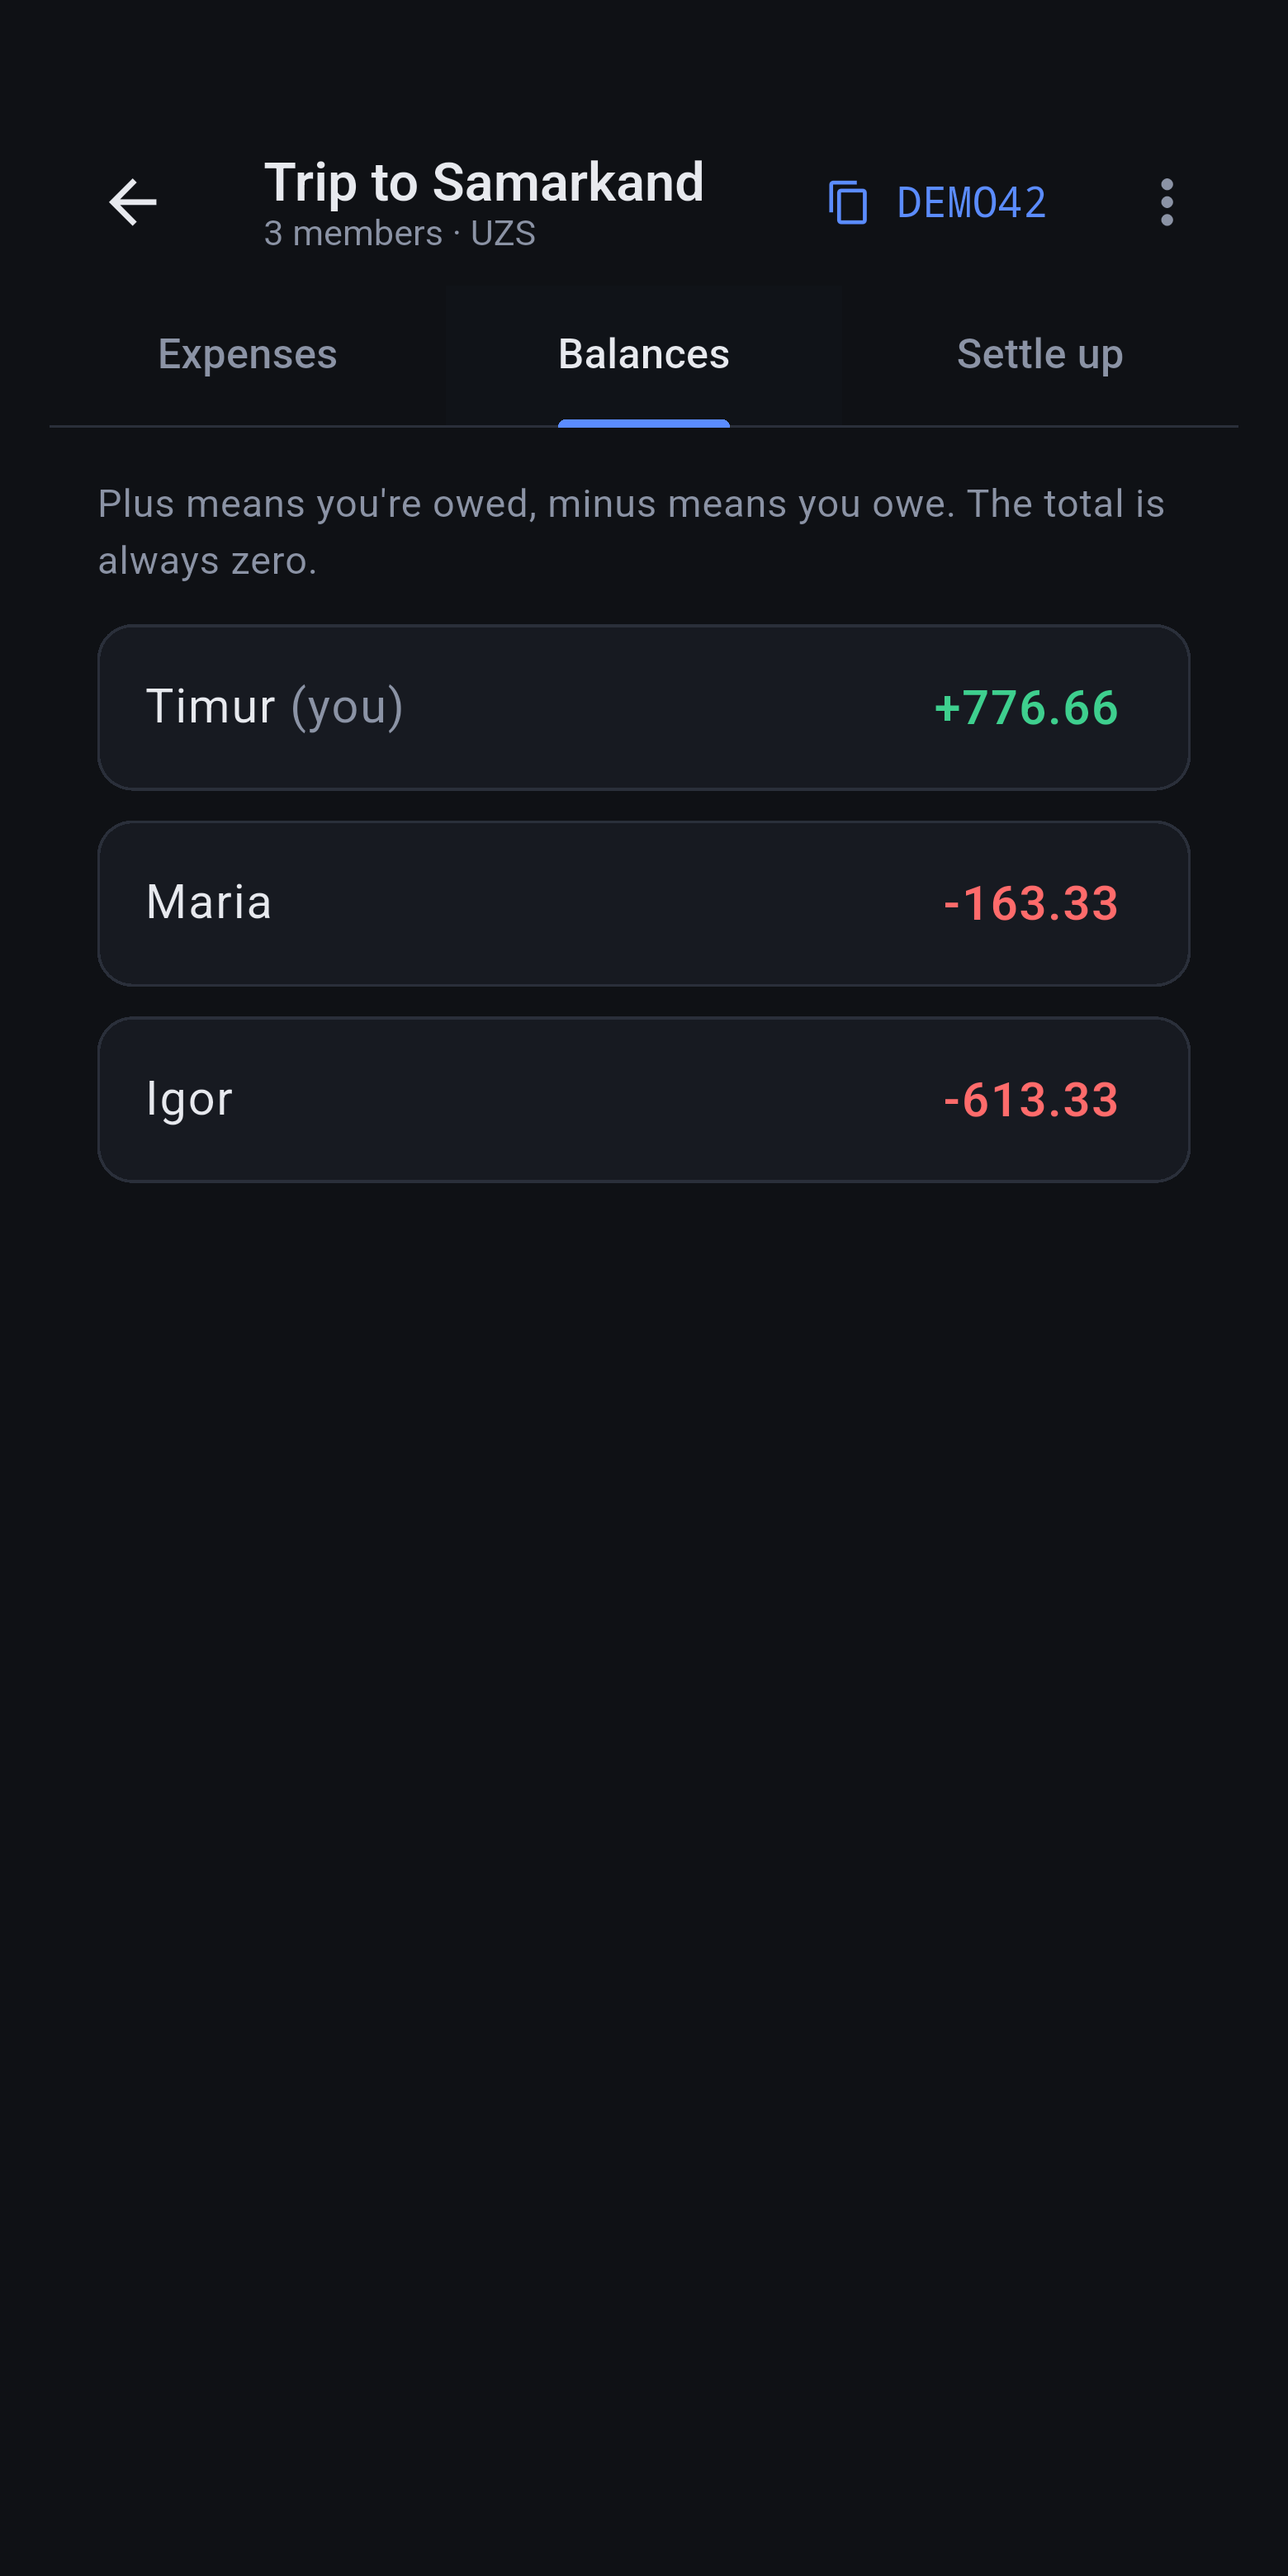
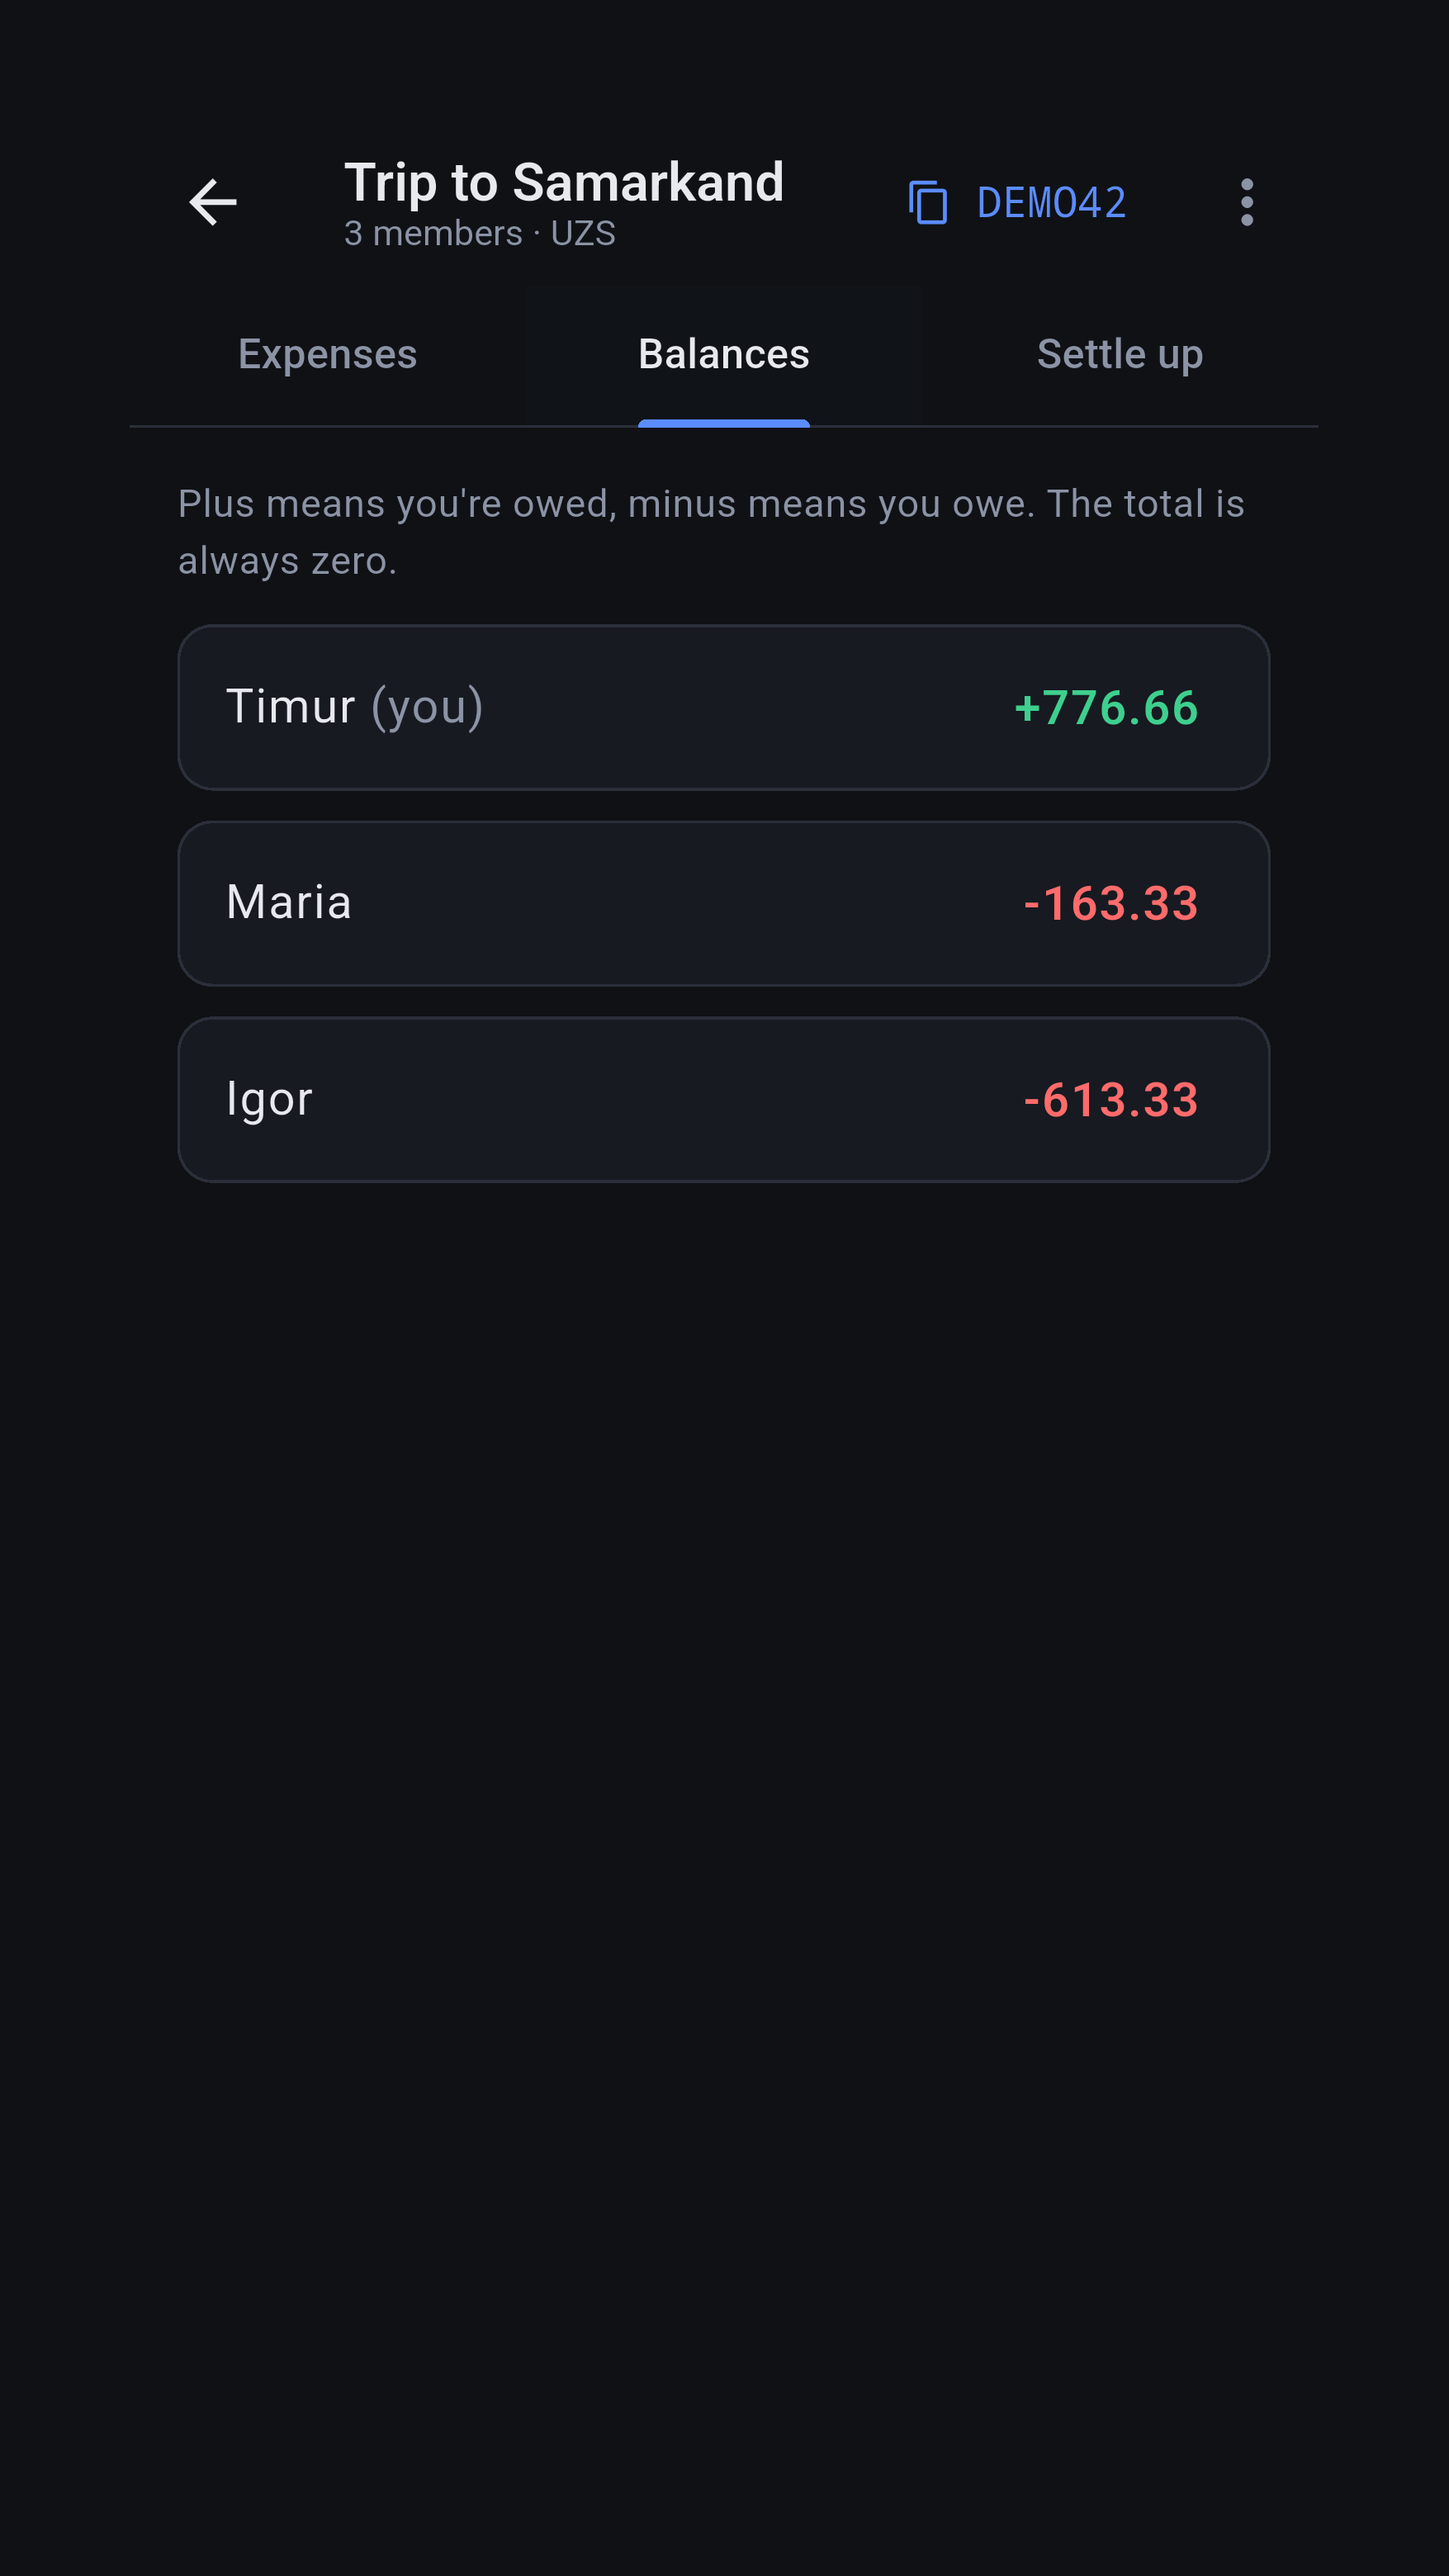
Скриншоты для Google Play в пропорции 9:16

diff --git a/tool/store_assets.py b/tool/store_assets.py
@@ -1,4 +1,4 @@
-# Доводит материалы для Google Play: скриншоты до 2:1, иконка 512, баннер 1024×500.
+# Доводит материалы для Google Play: скриншоты до 9:16, иконка 512, баннер 1024×500.
 # Нужен Pillow; шрифт баннера — системный SF (macOS).
 #   python3 tool/store_assets.py . "Делим счёт и считаем, кто кому должен" ru
 #   python3 tool/store_assets.py . "Split the bill, see who owes whom" en
@@ -7,14 +7,16 @@ from PIL import Image, ImageDraw, ImageFont
 root = sys.argv[1]
 BG = (15, 17, 21)
 
-# Скриншоты: Play не принимает стороны длиннее двух коротких — расширяем фоном
+# Скриншоты: Play принимает телефонные снимки только в пропорции ровно 9:16.
+# Современные телефоны вытянутее (19.5:9), поэтому расширяем снимок фоном по бокам.
 for f in glob.glob(f'{root}/store/screenshots/*.png'):
     im = Image.open(f).convert('RGB')
     w, h = im.size
-    if h > 2 * w:
-        nw = (h + 1) // 2
-        canvas = Image.new('RGB', (nw, h), BG)
-        canvas.paste(im, ((nw - w) // 2, 0))
+    nh = -(-max(h, w * 16 // 9) // 16) * 16   # кратно 16, чтобы 9:16 вышло точно
+    nw = nh * 9 // 16
+    if (nw, nh) != (w, h):
+        canvas = Image.new('RGB', (nw, nh), BG)
+        canvas.paste(im, ((nw - w) // 2, (nh - h) // 2))
         canvas.save(f)
 
 icon = Image.open(f'{root}/assets/icon/icon.png').convert('RGB')

diff --git a/README.md b/README.md
@@ -175,7 +175,7 @@ flutter drive --driver=test_driver/screenshots.dart \
   --target=integration_test/screenshots_test.dart -d <устройство>
 ```
 
-Скриншоты сохраняются в `store/screenshots`. Google Play не принимает снимки, у которых
-длинная сторона больше двух коротких, поэтому снимки с современных телефонов (19.5:9)
-нужно расширить фоном до 2:1. Это делает `tool/store_assets.py`, он же рисует баннер. Тексты страницы и ответы на анкеты Play лежат в
-`store/listing.md`.
+Скриншоты сохраняются в `store/screenshots`. Google Play принимает телефонные снимки
+только в пропорции ровно 9:16, а современные телефоны вытянутее (19.5:9), поэтому снимки
+расширяются фоном по бокам. Это делает `tool/store_assets.py`, он же рисует баннер.
+Тексты страницы и ответы на анкеты Play лежат в `store/listing.md`.
